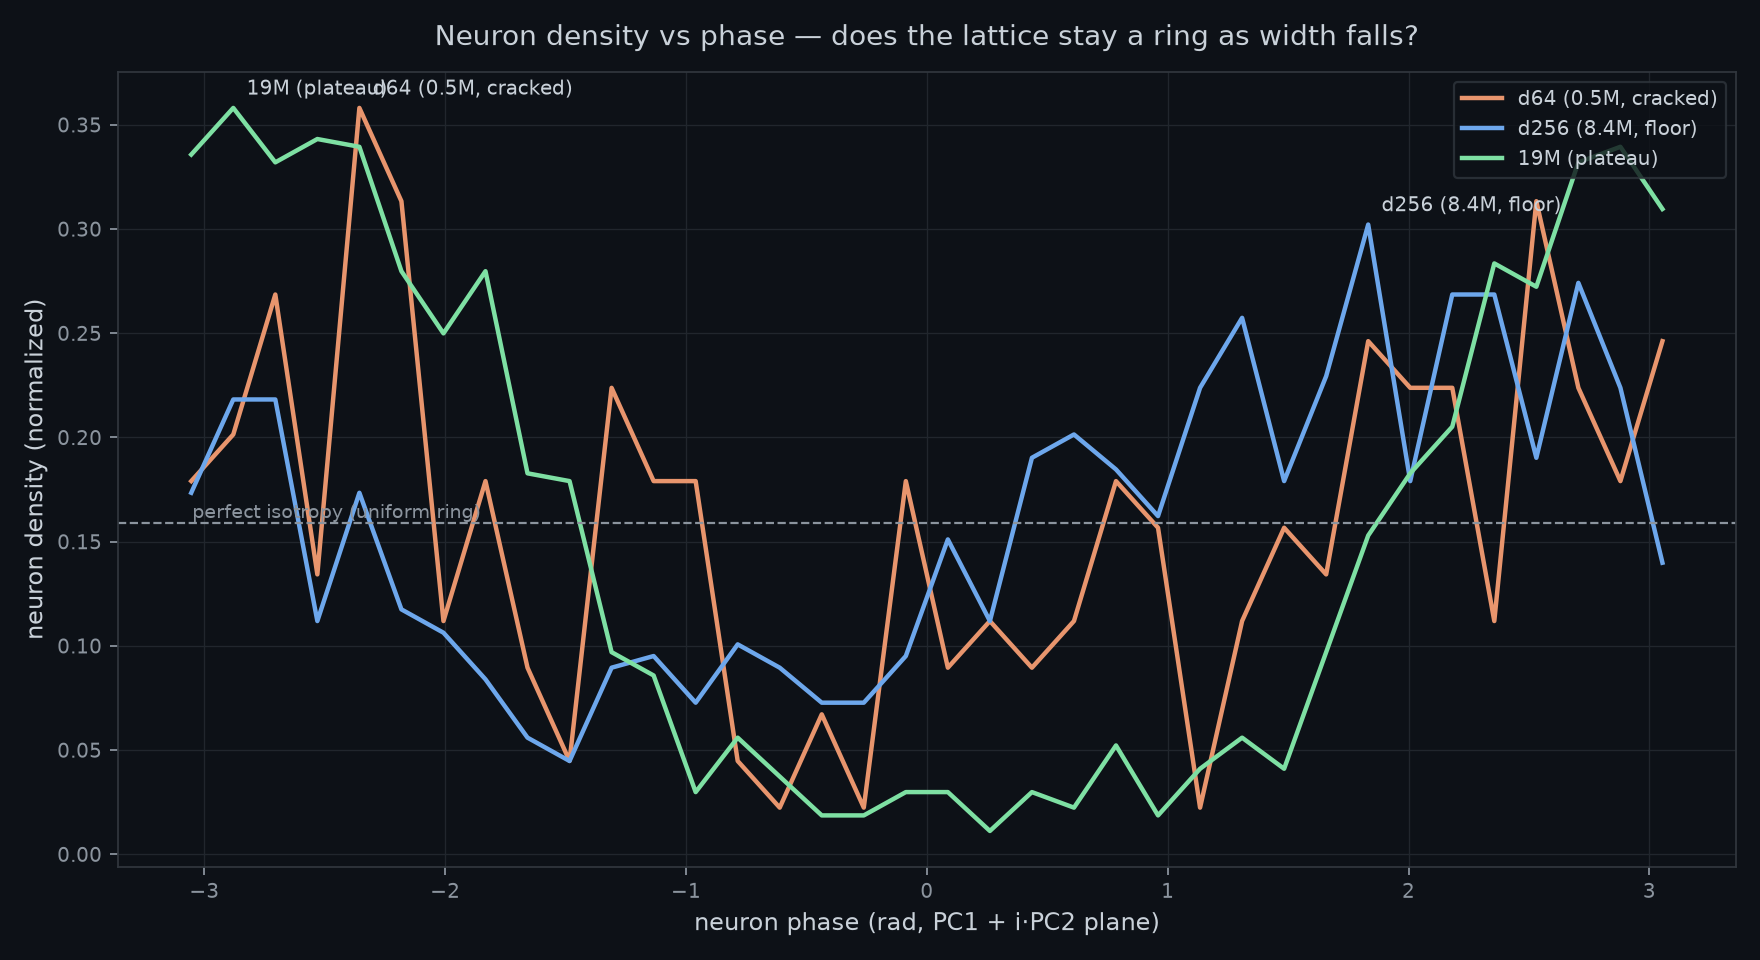
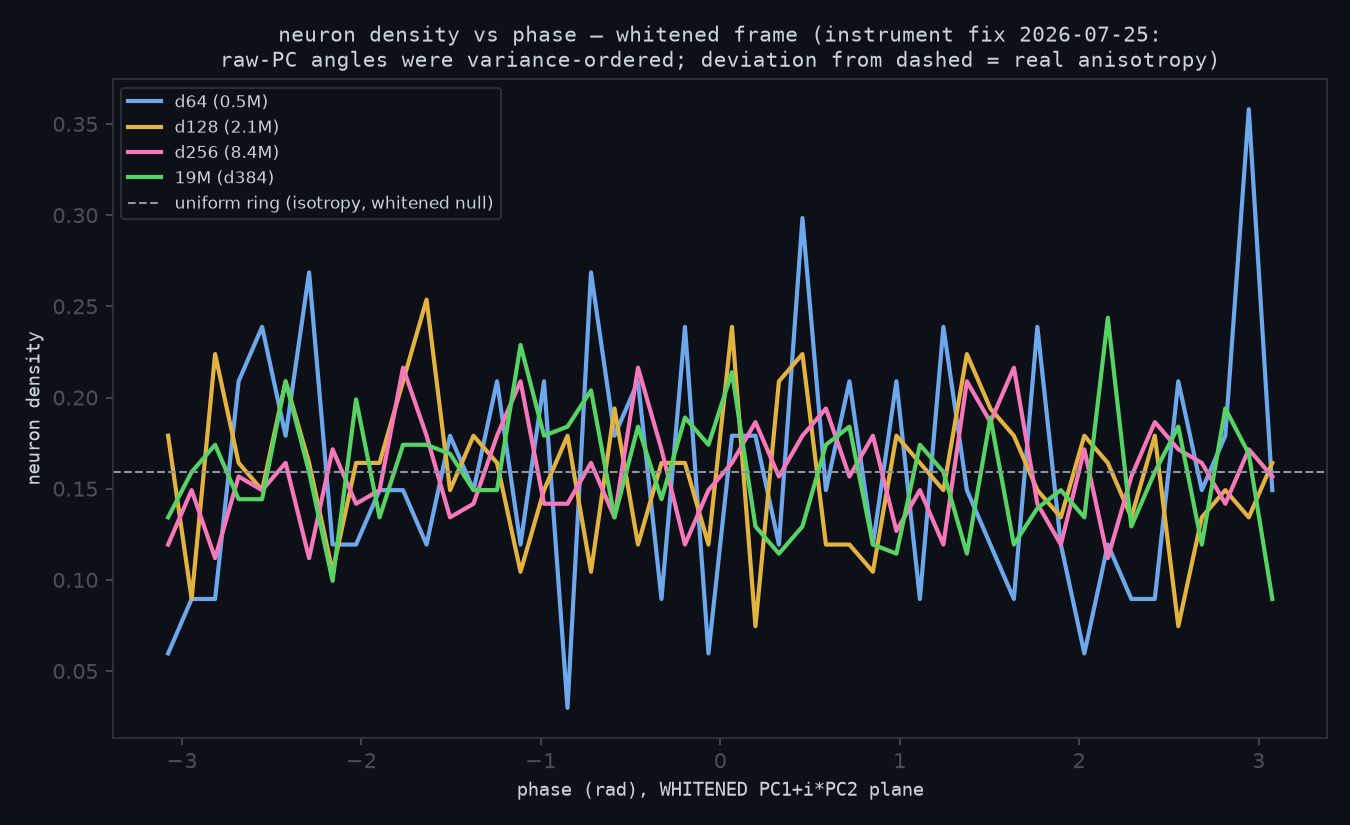
instrument fix (reviewer catch): whitened phase null + shared color scales; density-vs-phase regenerated, bimodality retracted as artifact; portrait-audit verdicts + viz upgrades banked

diff --git a/scripts/plot_neurons.py b/scripts/plot_neurons.py
@@ -59,17 +59,23 @@ def project(W, method: str):
         denom = 1 + p3[:, 2].clamp(min=-0.99)
         return p3[:, 0] / denom, p3[:, 1] / denom, mag
     if method == "polar":
+        # WHITENED (2026-07-25 instrument fix, reviewer catch): SVD
+        # orders axes by variance, so the raw PC1+i*PC2 angle is
+        # non-uniform even for a perfectly isotropic cloud. Equalize
+        # the two variances before taking the angle — only then does
+        # "uniform ring" mean isotropy.
         X = W - W.mean(0)
-        _, _, V = torch.linalg.svd(X, full_matrices=False)
+        _, S, V = torch.linalg.svd(X, full_matrices=False)
         P = X @ V[:2].T
+        P = P / S[:2].clamp(min=1e-12)
         z = torch.complex(P[:, 0], P[:, 1])
         return z.angle(), mag, mag
     raise SystemExit(f"unknown method {method}")
 
 
-def scatter(ax, xs, ys, mag, title, cmap):
+def scatter(ax, xs, ys, mag, title, cmap, vmin=None, vmax=None):
     ax.scatter(xs, ys, c=mag, cmap=cmap, s=6, alpha=0.85,
-               linewidths=0)
+               linewidths=0, vmin=vmin, vmax=vmax)
     ax.set_title(title, color=FG, fontsize=11, family="monospace")
     ax.set_facecolor(BG)
     for s in ax.spines.values():
@@ -144,10 +150,17 @@ def main() -> None:
                              figsize=(9 * len(ckpts), 8.5))
     fig.patch.set_facecolor(BG)
     axes = axes if len(ckpts) > 1 else [axes]
-    for ax, (ck, title) in zip(axes, ckpts):
+    # shared color scale across compare panels (2026-07-25 fix:
+    # per-panel norms made the same color mean different magnitudes)
+    panels = []
+    for ck, title in ckpts:
         W = neuron_matrix(ck, a.key)
         xs, ys, mag = project(W, a.method)
-        scatter(ax, xs, ys, mag, title, a.cmap)
+        panels.append((xs, ys, mag, title))
+    vmin = min(float(p[2].min()) for p in panels)
+    vmax = max(float(p[2].max()) for p in panels)
+    for ax, (xs, ys, mag, title) in zip(axes, panels):
+        scatter(ax, xs, ys, mag, title, a.cmap, vmin=vmin, vmax=vmax)
         if a.method == "polar":
             ax.set_xlabel("phase (rad) of PC1 + i*PC2", color=FG,
                           fontsize=8, family="monospace")

diff --git a/docs/RESULTS.md b/docs/RESULTS.md
@@ -4765,3 +4765,23 @@ landed and CHANGED the booking — command diff written in.
 5. Loss-capability divergence (bf16+packing cell: LOWER loss
    0.4124, gate −13): gate-not-the-loss, 6th instance — packing's
    signature from 07-17 (loss blind to the hole) reproduced.
+
+## Instrument fix: the phase-density null was wrong (2026-07-25, reviewer catch)
+
+The reviewer's portrait audit caught neuron-density-vs-phase using
+raw PC1+i*PC2 angles: SVD orders axes by variance, so even a
+perfectly isotropic cloud reads non-uniform — the bimodal wiggle in
+the original chart was largely PROJECTION ARTIFACT and its "0.16 =
+isotropy" line the wrong null. FIX SHIPPED: polar projection now
+whitens (equalizes PC1/PC2 variance) before taking angles;
+compare-panels now share one color scale (same color = same
+magnitude). Chart regenerated: the REAL read survives — all four
+widths (d64/d128/d256/19M) overlap in whitened phase density:
+lattice geometry is width-robust even where the capability floor
+cracks (d64), consistent with R=0.034 and texture-frozen-at-birth.
+The earlier bimodality read is retracted as instrument artifact.
+Portrait-audit verdicts also banked: binary = uniform-color blob
+(constant row norm, the no-zero law made visible), ternary =
+graded (sparsity dimmer switch); PR-across-alphabets is an
+alphabet artifact (never compare PR levels cross-alphabet);
+cross-model PHASE comparisons remain gauge-void until Procrustes.

diff --git a/docs/RIFF-LEDGER.md b/docs/RIFF-LEDGER.md
@@ -580,3 +580,15 @@ to the collaboration itself.
   leg = the pending rotation bracket (banked rider);
   (4) PQ-for-KV-cache = banked line on bench_kv_quant_decode.
   Vector search itself (RAG/tenancy) = tangent, no build.
+
+- **2026-07-25 (reviewer, portrait audit): visualization upgrades.**
+  Ranked: (1) Procrustes gauge-fix before cross-model portraits —
+  unlocks "same lattice up to gauge?" (calculated-model thesis
+  test; supersedes the banked gauge-fixed-phase item with a
+  concrete method); (2) whitened null + shared color (SHIPPED
+  same-day); (3) clade/family neuron coloring — visual holography
+  test (mixed = holographic, clumped = theory breaks); reclaims
+  the redundant color channel; (4) shared-scale width-ladder small
+  multiples; growth animation ep0->ep1->final (motion honest,
+  static 3D rejected — occlusion is rotation-dependent).
+  Attribution: reviewer agent; Artin commissioned the audit.
